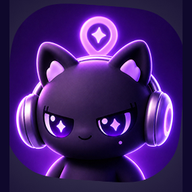
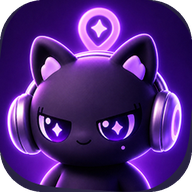
Онбординг листается, иконка перестала выглядеть вырезанной
В макетах слайды приветствия листаются каруселью, а в приложении картинка
просто подменялась по кнопке. Теперь это настоящая лента: листается
пальцем с примагничиванием, соседние кадры приглушены и уменьшены и
возвращаются к полному размеру по мере листания — один перетекает в
другой. Текст едет вдвое медленнее картинки, поэтому слайды читаются
слоями. Кнопка «Далее» прокручивает ту же ленту, точки под картинкой
кликабельны, активная вытягивается.

Иконка приложения лежала прямоугольником 256×284 с запечённым тёмным фоном
и мягким свечением по краям — отсюда ощущение неаккуратной вырезки на
приветствии, входе и регистрации. Теперь это квадрат 512×512 со
скруглением и прозрачными углами, как у системных иконок; из него же
пересобраны иконки для установки на домашний экран.

Кнопка «Пожаловаться» уехала из подвала карточки ивента в шапку, отдельным
значком: рядом с «покинуть ивент» её слишком легко было нажать не глядя.
В профиле другого человека она встала туда же.

Claude-Session: https://claude.ai/code/session_01T8JKFndLyaU4Ks3KpJ9hZv

diff --git a/src/screens/Onboarding.tsx b/src/screens/Onboarding.tsx
@@ -1,4 +1,4 @@
-import { useState } from 'react'
+import { useEffect, useRef, useState } from 'react'
 import { useNavigate } from 'react-router-dom'
 import { Button } from '../components/ui'
 
@@ -21,53 +21,129 @@ const SLIDES = [
   },
 ]
 
+/**
+ * Приветствие при первом запуске (ЧТЗ 5.2).
+ *
+ * Слайды листаются пальцем, как в макетах: это настоящая лента с
+ * прокруткой и примагничиванием, а не подмена картинки по кнопке. Кнопка
+ * «Далее» делает ровно то же самое — прокручивает ленту к следующему
+ * слайду, поэтому оба способа выглядят одинаково.
+ *
+ * Соседние слайды приглушены и чуть уменьшены, и по мере листания
+ * возвращаются к полному размеру — за счёт этого один кадр перетекает в
+ * другой, а не сменяется рывком. Прозрачность и масштаб считаются прямо из
+ * положения прокрутки, поэтому картинка следует за пальцем.
+ */
 export default function Onboarding () {
-  const [step, setStep] = useState(0)
   const navigate = useNavigate()
-  const slide = SLIDES[step]
+  const track = useRef<HTMLDivElement>(null)
+
+  /** Положение ленты в «слайдах»: 1.4 — палец между вторым и третьим. */
+  const [offset, setOffset] = useState(0)
+  const step = Math.round(offset)
   const last = step === SLIDES.length - 1
 
   const finish = () => navigate('/register')
 
+  function go (index: number) {
+    const element = track.current
+    if (!element) return
+    element.scrollTo({ left: index * element.clientWidth, behavior: 'smooth' })
+  }
+
+  // Прокрутка пальцем и прокрутка кнопкой приходят сюда одинаково.
+  useEffect(() => {
+    const element = track.current
+    if (!element) return
+
+    const onScroll = () => setOffset(element.scrollLeft / (element.clientWidth || 1))
+    element.addEventListener('scroll', onScroll, { passive: true })
+    return () => element.removeEventListener('scroll', onScroll)
+  }, [])
+
   return (
-    <div className="flex h-full flex-col px-6 pb-8 pt-4">
-      <button onClick={finish} className="self-end py-3 text-[17px] text-muted">
+    <div className="flex h-full flex-col pb-8 pt-4">
+      <button onClick={finish} className="self-end px-6 py-3 text-[17px] text-muted">
         Пропустить
       </button>
 
       {/*
-        Высоты заданы жёстко, а не подстраиваются под содержимое: иначе при
-        переключении слайдов картинка и текст прыгают, потому что заголовки
-        и описания занимают разное число строк.
+        Высота ленты и блока текста задана жёстко: заголовки и описания
+        занимают разное число строк, и без этого картинка прыгала бы вверх-вниз
+        при каждом листании.
       */}
       <div className="flex flex-1 flex-col items-center justify-center gap-7">
-        <div className="flex h-[320px] w-full max-w-[320px] items-center justify-center">
-          <img
-            src={`${import.meta.env.BASE_URL}art/${slide.art}`}
-            alt="" width={465} height={488}
-            className="max-h-full w-auto rounded-[32px]"
-          />
+        <div
+          ref={track}
+          className="no-scrollbar flex h-[320px] w-full snap-x snap-mandatory overflow-x-auto
+                     overscroll-x-contain"
+        >
+          {SLIDES.map((slide, index) => {
+            const distance = Math.min(1, Math.abs(offset - index))
+
+            return (
+              <div
+                key={slide.art}
+                className="flex w-full shrink-0 basis-full snap-center items-center justify-center px-6"
+              >
+                <img
+                  src={`${import.meta.env.BASE_URL}art/${slide.art}`}
+                  alt="" width={465} height={488} draggable={false}
+                  /* Одинаковая рамка под каждый кадр: иллюстрации немного
+                     разной формы, и без неё картинка прыгала бы по высоте
+                     от слайда к слайду. */
+                  className="size-full rounded-[32px] object-contain"
+                  style={{
+                    opacity: 1 - distance * 0.7,
+                    transform: `scale(${1 - distance * 0.14})`,
+                  }}
+                />
+              </div>
+            )
+          })}
         </div>
 
         <div className="flex gap-2">
-          {SLIDES.map((_, index) => (
-            <span
-              key={index}
-              className={`size-2.5 rounded-full transition ${
-                index === step ? 'bg-white' : 'bg-white/30'}`}
+          {SLIDES.map((slide, index) => (
+            <button
+              key={slide.art} onClick={() => go(index)}
+              aria-label={`Слайд ${index + 1}`}
+              className={`h-2.5 rounded-full transition-all duration-300 ${
+                index === step ? 'w-7 bg-white' : 'w-2.5 bg-white/30'}`}
             />
           ))}
         </div>
 
-        <div className="flex h-[160px] flex-col items-center gap-3 text-center">
-          <h1 className="text-[30px] leading-tight">{slide.title}</h1>
-          <p className="text-[17px] leading-snug text-white/75">{slide.text}</p>
+        <div className="relative h-[160px] w-full px-6">
+          {SLIDES.map((slide, index) => {
+            const distance = Math.min(1, Math.abs(offset - index))
+
+            return (
+              <div
+                key={slide.art}
+                aria-hidden={index !== step}
+                className="absolute inset-0 flex flex-col items-center gap-3 px-6 text-center"
+                style={{
+                  opacity: 1 - distance,
+                  // Текст сдвигается вдвое медленнее картинки — от этого
+                  // слайды кажутся слоями, а не одной плоской лентой.
+                  transform: `translateX(${(index - offset) * 50}%)`,
+                  pointerEvents: index === step ? 'auto' : 'none',
+                }}
+              >
+                <h1 className="text-[30px] leading-tight">{slide.title}</h1>
+                <p className="text-[17px] leading-snug text-white/75">{slide.text}</p>
+              </div>
+            )
+          })}
         </div>
       </div>
 
-      <Button onClick={() => (last ? finish() : setStep(step + 1))}>
-        {last ? 'Вперёд!' : 'Далее'}
-      </Button>
+      <div className="px-6">
+        <Button onClick={() => (last ? finish() : go(step + 1))}>
+          {last ? 'Вперёд!' : 'Далее'}
+        </Button>
+      </div>
     </div>
   )
 }

diff --git a/src/screens/EventDetails.tsx b/src/screens/EventDetails.tsx
@@ -3,7 +3,7 @@ import { Link, useNavigate, useParams } from 'react-router-dom'
 import { PlainScreen } from '../components/Layout'
 import { Avatar, Button, Chip, Field } from '../components/ui'
 import { Failed, Loading } from '../components/States'
-import { BackIcon, ChevronIcon, PinIcon, StarIcon } from '../components/icons'
+import { BackIcon, ChevronIcon, FlagIcon, PinIcon, StarIcon } from '../components/icons'
 import { Cover } from '../components/Art'
 import { categoryTitle, formatDate, formatTime } from '../data/demo'
 import {
@@ -78,6 +78,16 @@ export default function EventDetails () {
   return (
     <PlainScreen
       left={<button onClick={() => navigate(-1)} aria-label="Назад"><BackIcon className="size-7" /></button>}
+      right={event.myRole !== 'organizer' ? (
+        // Жалоба стоит отдельно от действий с самим ивентом: рядом с
+        // «покинуть» её слишком легко нажать не глядя.
+        <button
+          onClick={() => setReporting(true)} aria-label="Пожаловаться"
+          className="grid size-10 place-items-center rounded-full bg-surface-2 text-red-400/80"
+        >
+          <FlagIcon className="size-5" />
+        </button>
+      ) : undefined}
     >
       <div className="space-y-4 px-4 pb-8">
         <div className="relative">
@@ -270,15 +280,6 @@ export default function EventDetails () {
           </div>
         )}
 
-        {/* Пожаловаться может любой, кто видит ивент, кроме его организатора. */}
-        {event.myRole !== 'organizer' && (
-          <button
-            onClick={() => setReporting(true)}
-            className="w-full py-2 text-center text-[15px] text-red-400/90"
-          >
-            Пожаловаться
-          </button>
-        )}
       </div>
 
       {reporting && (

diff --git a/src/screens/UserProfile.tsx b/src/screens/UserProfile.tsx
@@ -3,7 +3,7 @@ import { useNavigate, useParams } from 'react-router-dom'
 import { PlainScreen } from '../components/Layout'
 import { Avatar, Chip, Progress } from '../components/ui'
 import { Failed, Loading } from '../components/States'
-import { BackIcon, StarIcon } from '../components/icons'
+import { BackIcon, FlagIcon, StarIcon } from '../components/icons'
 import { ReportSheet } from '../components/ReportSheet'
 import { useToast } from '../components/Toast'
 import { INTERESTS, levelFromExp, levelProgress } from '../data/demo'
@@ -57,6 +57,14 @@ export default function UserProfile () {
     <PlainScreen
       title="Профиль"
       left={<button onClick={() => navigate(-1)} aria-label="Назад"><BackIcon className="size-7" /></button>}
+      right={mine ? undefined : (
+        <button
+          onClick={() => setReporting(true)} aria-label="Пожаловаться"
+          className="grid size-10 place-items-center rounded-full bg-surface-2 text-red-400/80"
+        >
+          <FlagIcon className="size-5" />
+        </button>
+      )}
     >
       <div className="space-y-6 px-5 pb-10 pt-1">
         <header className="flex flex-col items-center text-center">
@@ -104,14 +112,6 @@ export default function UserProfile () {
 
         <p className="text-center text-[15px] text-muted">В Questa с {person.since}</p>
 
-        {!mine && (
-          <button
-            onClick={() => setReporting(true)}
-            className="w-full py-2 text-center text-[15px] text-red-400/90"
-          >
-            Пожаловаться
-          </button>
-        )}
       </div>
 
       {reporting && profile && (

diff --git a/src/screens/Register.tsx b/src/screens/Register.tsx
@@ -33,7 +33,7 @@ export default function Register () {
   return (
     <div className="flex h-full flex-col px-6 pb-8">
       <div className="flex flex-1 flex-col items-center justify-center gap-3">
-        <img src={`${import.meta.env.BASE_URL}art/logo.png`} alt="" width={112} height={124} className="w-28" />
+        <img src={`${import.meta.env.BASE_URL}art/logo.png`} alt="" width={512} height={512} className="size-28" />
         <span className="text-[34px] font-extrabold">Questa</span>
       </div>
 

diff --git a/src/screens/Login.tsx b/src/screens/Login.tsx
@@ -26,7 +26,7 @@ export default function Login () {
   return (
     <div className="flex h-full flex-col px-6 pb-8">
       <div className="flex flex-1 flex-col items-center justify-center gap-3">
-        <img src={`${import.meta.env.BASE_URL}art/logo.png`} alt="" width={112} height={124} className="w-28" />
+        <img src={`${import.meta.env.BASE_URL}art/logo.png`} alt="" width={512} height={512} className="size-28" />
         <span className="text-[34px] font-extrabold">Questa</span>
       </div>
 

diff --git a/src/screens/Splash.tsx b/src/screens/Splash.tsx
@@ -17,8 +17,8 @@ export default function Splash () {
     >
       <img
         src={`${import.meta.env.BASE_URL}art/logo.png`}
-        alt="Questa" width={128} height={142}
-        className="w-32 animate-[pulse_2.5s_ease-in-out_infinite]"
+        alt="Questa" width={512} height={512}
+        className="size-32 animate-[pulse_2.5s_ease-in-out_infinite]"
       />
       <span className="text-[40px] font-extrabold tracking-tight">Questa</span>
     </button>

diff --git a/src/components/icons.tsx b/src/components/icons.tsx
@@ -151,3 +151,10 @@ export const LocateIcon = ({ className }: IconProps) => (
     <path d="M12 2v3M12 19v3M2 12h3M19 12h3" />
   </svg>
 )
+
+export const FlagIcon = ({ className }: IconProps) => (
+  <svg viewBox="0 0 24 24" className={className} {...stroke}>
+    <path d="M6 21V4" />
+    <path d="M6 4.5h10l-2 3.5 2 3.5H6" />
+  </svg>
+)
